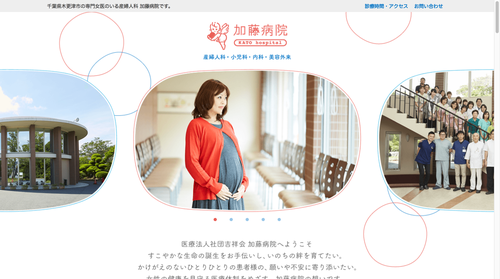
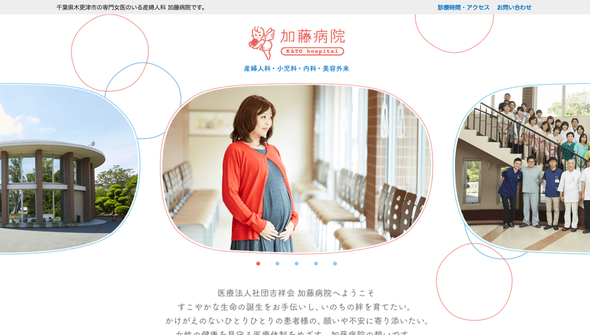
スクロールバーの切り抜き追加

diff --git a/resize.py b/resize.py
@@ -14,10 +14,13 @@ MIN_DIR = "/Users/kawamataryou/PycharmProjects/cap/op-images"
 # 縮小率
 ratio = 0.3
 
-# 縮小
+# 縮小切り抜き
 for infile in glob.glob(os.path.join(FROM_DIR, "*.png")):
     im = Image.open(infile)
-    im.thumbnail((500,500), Image.ANTIALIAS)
+    im.crop((0, 0, 590, 335))
+    im.thumbnail((600,600), Image.ANTIALIAS)
+    #スクロールバーの切り抜き
+    im = im.crop((0, 0, 590, 335))
     im.save(os.path.join(TO_DIR, os.path.basename(infile)))
 
 # 無劣化圧縮
